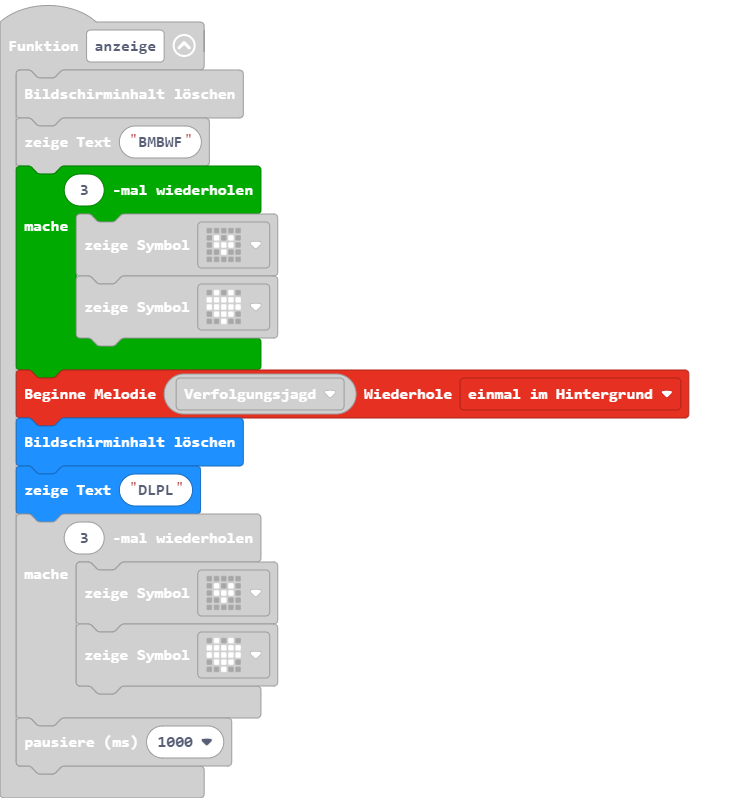
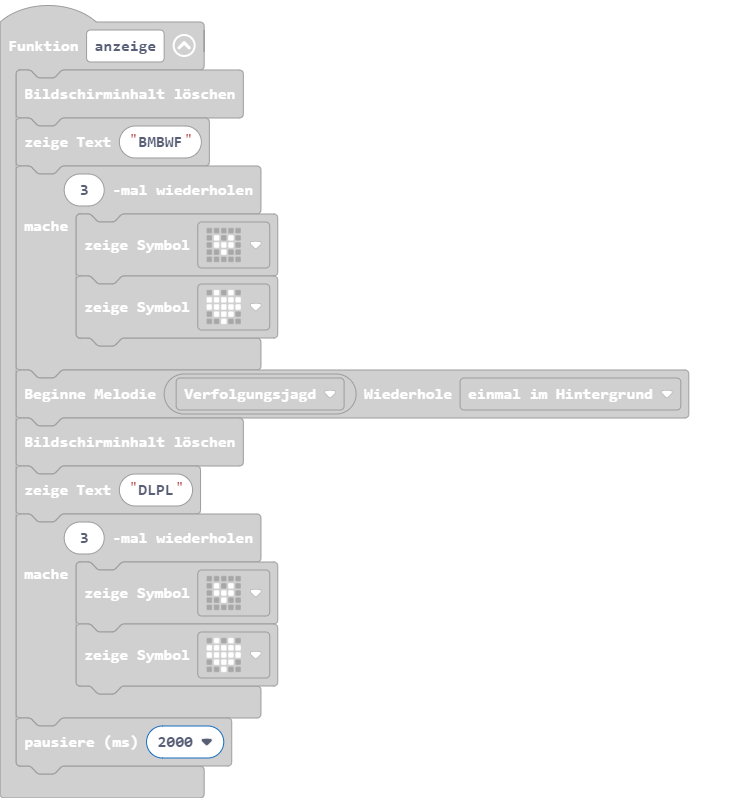
Aktualisiere main.blocks, main.ts

Changed region(s): [[0.0, 0.1805, 0.9312, 0.6617], [0.2173, 0.9023, 0.2483, 0.9323]]

diff --git a/main.ts b/main.ts
@@ -27,7 +27,7 @@ function anzeige () {
         basic.showIcon(IconNames.SmallHeart)
         basic.showIcon(IconNames.Heart)
     }
-    basic.pause(1000)
+    basic.pause(2000)
 }
 basic.showIcon(IconNames.Happy)
 input.setSoundThreshold(SoundThreshold.Loud, 173)
